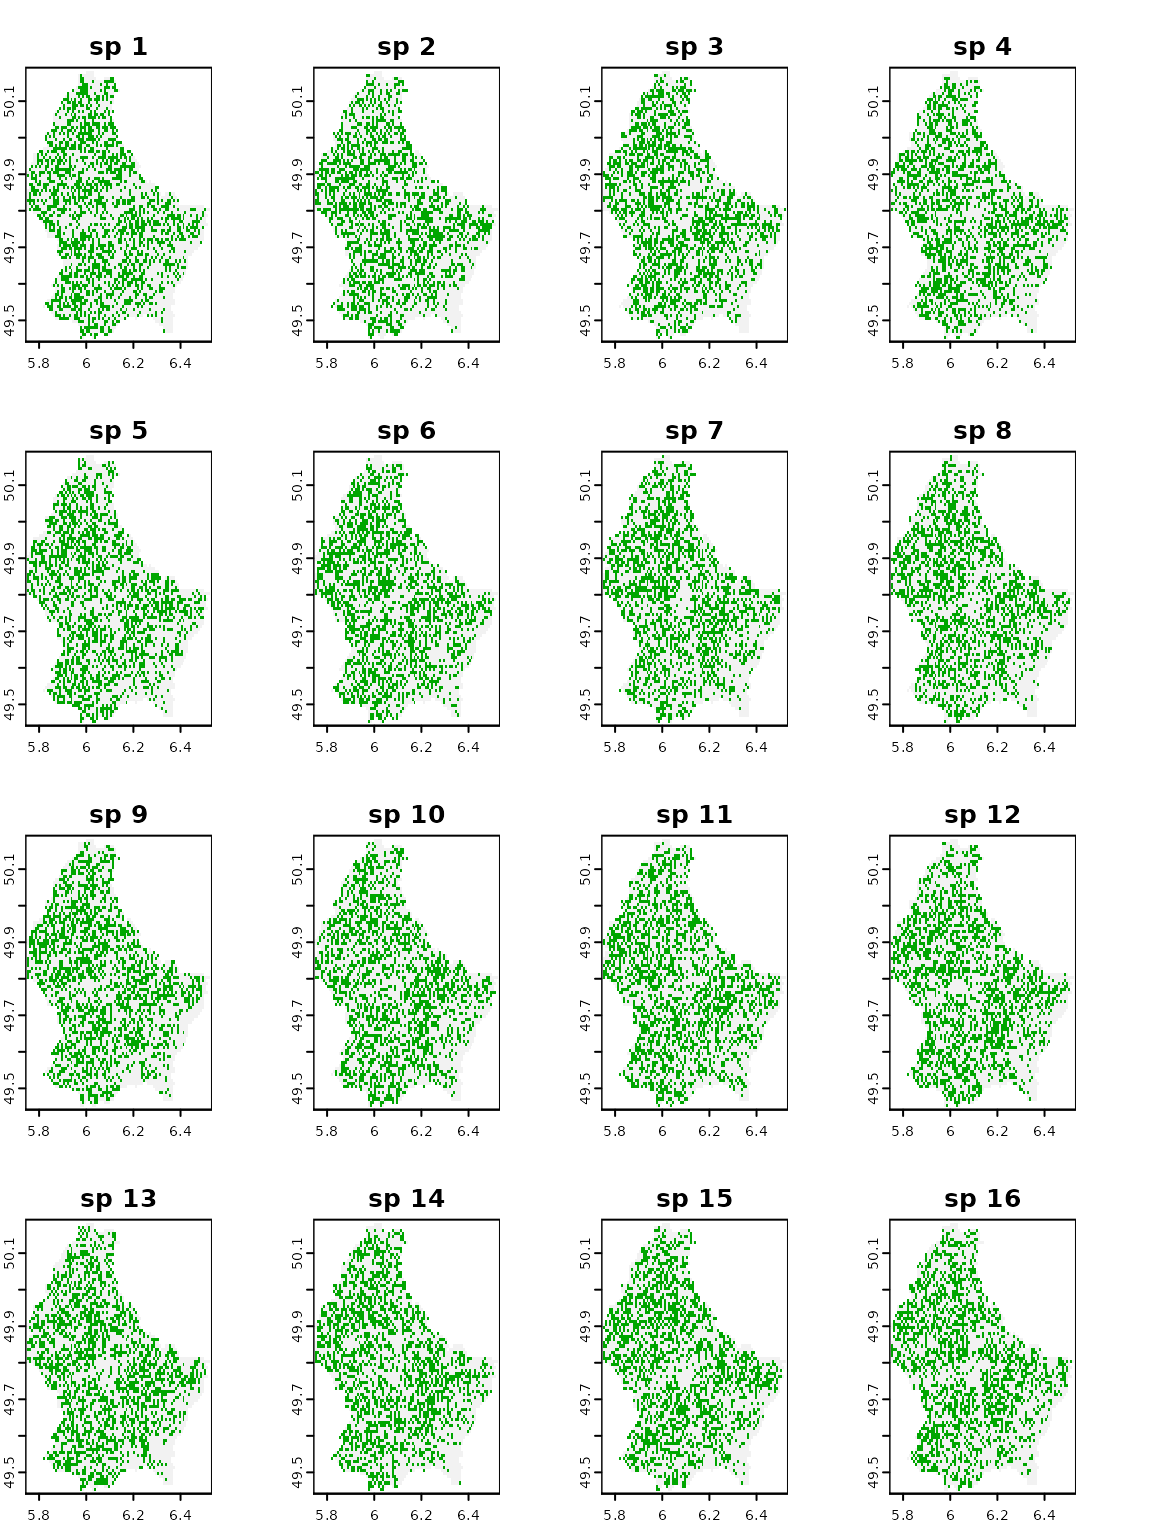
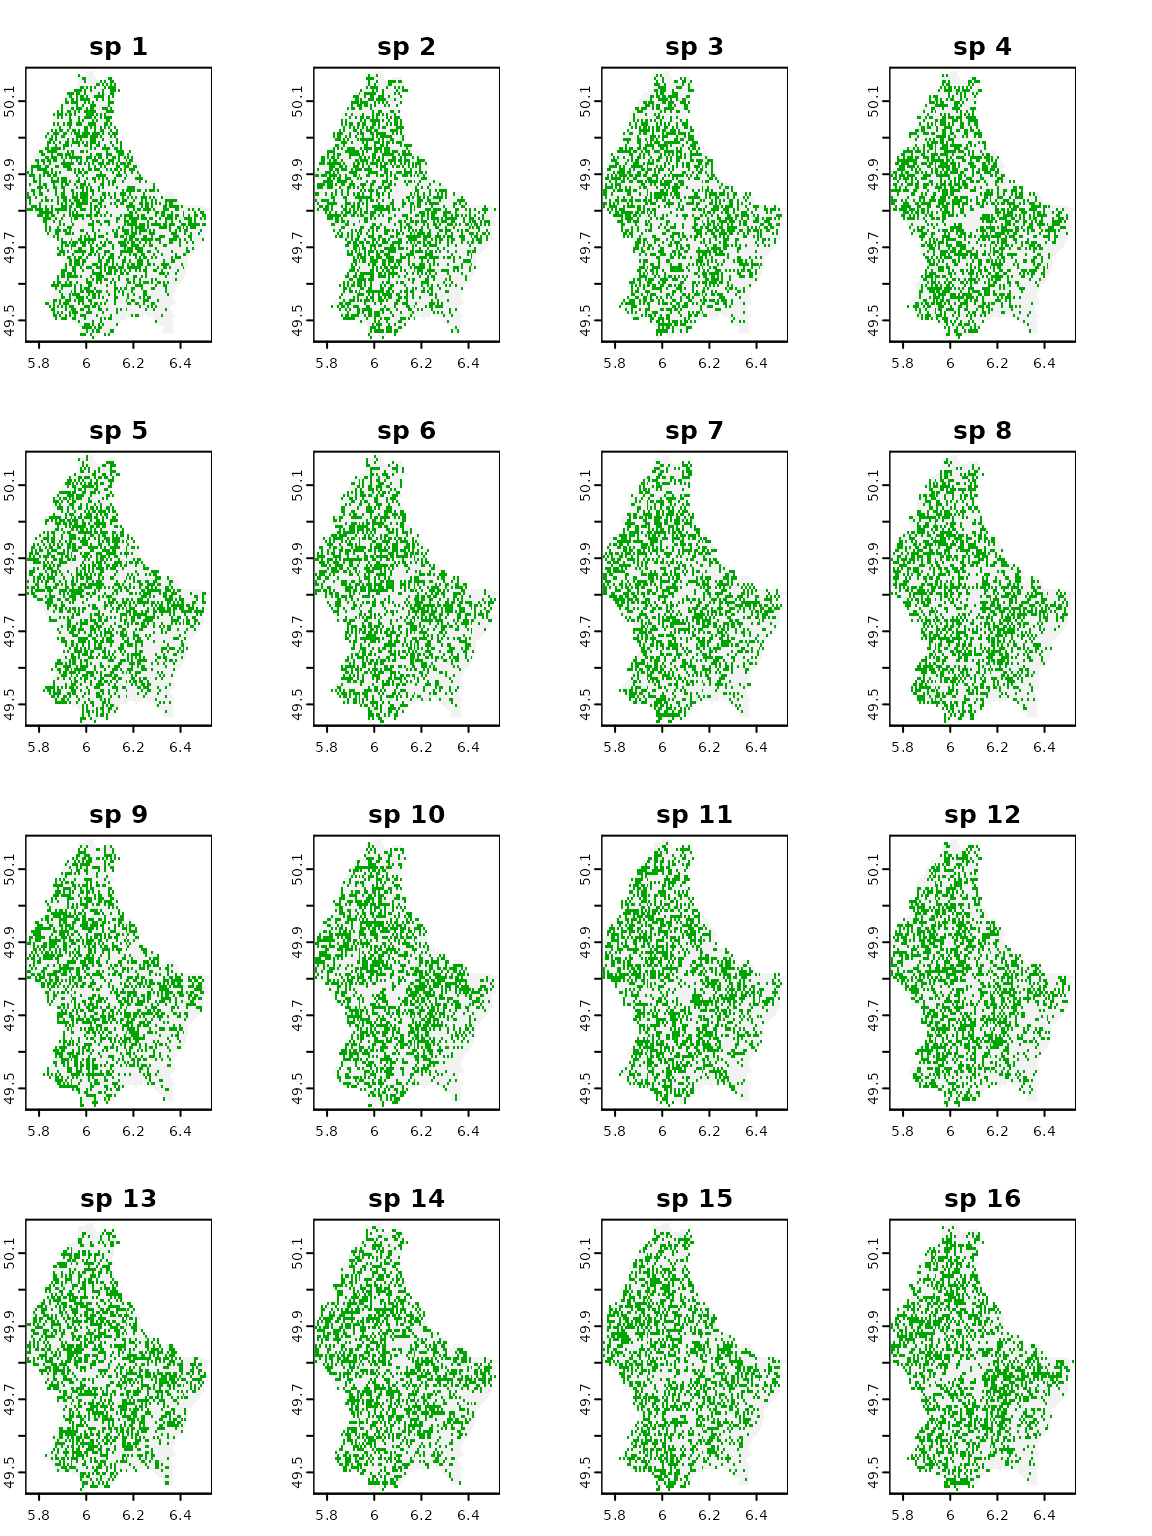
Deploying to gh-pages from @ HemingNM/SESraster@30243ec6cc4952851b741adb73d3d7d036ff828b 🚀

diff --git a/articles/SESraster-vignette.html b/articles/SESraster-vignette.html
@@ -210,6 +210,34 @@ same.</p>
 <div class="sourceCode" id="cb7"><pre class="downlit sourceCode r">
 <code class="sourceCode R"><span><span class="fu"><a href="https://rdrr.io/pkg/terra/man/plot.html" class="external-link">plot</a></span><span class="op">(</span><span class="fu"><a href="https://rdrr.io/r/base/c.html" class="external-link">c</a></span><span class="op">(</span><span class="fu"><a href="https://rdrr.io/r/base/sum.html" class="external-link">sum</a></span><span class="op">(</span><span class="va">r10</span><span class="op">)</span>, <span class="fu"><a href="https://rdrr.io/r/base/sum.html" class="external-link">sum</a></span><span class="op">(</span><span class="va">sr1</span><span class="op">)</span><span class="op">)</span>, main<span class="op">=</span><span class="fu"><a href="https://rdrr.io/r/base/c.html" class="external-link">c</a></span><span class="op">(</span><span class="st">"observed"</span>, <span class="st">"randomized"</span><span class="op">)</span><span class="op">)</span></span></code></pre></div>
 <p><img src="SESraster-vignette_files/figure-html/naive-spp-rich-1.png" width="576"></p>
+<div class="sourceCode" id="cb8"><pre class="downlit sourceCode r">
+<code class="sourceCode R"><span><span class="va">sr1b</span> <span class="op">&lt;-</span> <span class="fu"><a href="../reference/bootspat_naive.html">bootspat_naive</a></span><span class="op">(</span><span class="va">r10</span>, random <span class="op">=</span> <span class="st">"species"</span>, memory <span class="op">=</span> <span class="cn">FALSE</span><span class="op">)</span></span>
+<span><span class="co">#&gt; The file does not fit on the memory. Randomization will be done by probability.</span></span></code></pre></div>
+<p>Check that the number of occupied pixels of randomized distributions
+are similar to those of the observed distributions.</p>
+<div class="sourceCode" id="cb9"><pre class="downlit sourceCode r">
+<code class="sourceCode R"><span><span class="fu"><a href="https://rdrr.io/r/base/cbind.html" class="external-link">cbind</a></span><span class="op">(</span>observed<span class="op">=</span><span class="fu"><a href="https://rdrr.io/r/base/lapply.html" class="external-link">sapply</a></span><span class="op">(</span><span class="va">r10</span>, <span class="kw">function</span><span class="op">(</span><span class="va">x</span><span class="op">)</span><span class="fu"><a href="https://rdrr.io/pkg/terra/man/freq.html" class="external-link">freq</a></span><span class="op">(</span><span class="va">x</span><span class="op">)</span><span class="op">[</span><span class="fl">2</span>,<span class="fl">3</span><span class="op">]</span><span class="op">)</span>,</span>
+<span>      randomized<span class="op">=</span><span class="fu"><a href="https://rdrr.io/r/base/lapply.html" class="external-link">sapply</a></span><span class="op">(</span><span class="va">sr1</span>, <span class="kw">function</span><span class="op">(</span><span class="va">x</span><span class="op">)</span><span class="fu"><a href="https://rdrr.io/pkg/terra/man/freq.html" class="external-link">freq</a></span><span class="op">(</span><span class="va">x</span><span class="op">)</span><span class="op">[</span><span class="fl">2</span>,<span class="fl">3</span><span class="op">]</span><span class="op">)</span>,</span>
+<span>      randomized_freq<span class="op">=</span><span class="fu"><a href="https://rdrr.io/r/base/lapply.html" class="external-link">sapply</a></span><span class="op">(</span><span class="va">sr1b</span>, <span class="kw">function</span><span class="op">(</span><span class="va">x</span><span class="op">)</span><span class="fu"><a href="https://rdrr.io/pkg/terra/man/freq.html" class="external-link">freq</a></span><span class="op">(</span><span class="va">x</span><span class="op">)</span><span class="op">[</span><span class="fl">2</span>,<span class="fl">3</span><span class="op">]</span><span class="op">)</span><span class="op">)</span></span>
+<span><span class="co">#&gt;       observed randomized randomized_freq</span></span>
+<span><span class="co">#&gt;  [1,]      767        767             773</span></span>
+<span><span class="co">#&gt;  [2,]     3443       3443            3452</span></span>
+<span><span class="co">#&gt;  [3,]     1175       1175            1180</span></span>
+<span><span class="co">#&gt;  [4,]      889        889             872</span></span>
+<span><span class="co">#&gt;  [5,]      908        908             952</span></span>
+<span><span class="co">#&gt;  [6,]     2160       2160            2143</span></span>
+<span><span class="co">#&gt;  [7,]      548        548             544</span></span>
+<span><span class="co">#&gt;  [8,]      133        133             127</span></span>
+<span><span class="co">#&gt;  [9,]      122        122             118</span></span>
+<span><span class="co">#&gt; [10,]     4174       4174            4171</span></span>
+<span><span class="co">#&gt; [11,]     2565       2565            2502</span></span>
+<span><span class="co">#&gt; [12,]     3031       3031            3029</span></span>
+<span><span class="co">#&gt; [13,]       36         36              35</span></span>
+<span><span class="co">#&gt; [14,]     4387       4387            4398</span></span>
+<span><span class="co">#&gt; [15,]     3270       3270            3235</span></span>
+<span><span class="co">#&gt; [16,]     2198       2198            2216</span></span>
+<span><span class="co">#&gt; [17,]     2427       2427            2392</span></span>
+<span><span class="co">#&gt; [18,]      235        235             229</span></span></code></pre></div>
 </div>
 <div class="section level4">
 <h4 id="by-site">by site<a class="anchor" aria-label="anchor" href="#by-site"></a>
@@ -222,11 +250,11 @@ pixels can be randomly assigned to each species (raster layer). Notice
 that, although the spatial structure of species richness is held
 constant, the number of pixels that each species occupy is completely
 randomized.</p>
-<div class="sourceCode" id="cb8"><pre class="downlit sourceCode r">
+<div class="sourceCode" id="cb10"><pre class="downlit sourceCode r">
 <code class="sourceCode R"><span><span class="va">sr2</span> <span class="op">&lt;-</span> <span class="fu"><a href="../reference/bootspat_naive.html">bootspat_naive</a></span><span class="op">(</span><span class="va">r10</span>, random <span class="op">=</span> <span class="st">"site"</span><span class="op">)</span></span>
 <span><span class="fu"><a href="https://rdrr.io/pkg/terra/man/plot.html" class="external-link">plot</a></span><span class="op">(</span><span class="va">sr2</span>, legend<span class="op">=</span><span class="cn">F</span><span class="op">)</span></span></code></pre></div>
 <p><img src="SESraster-vignette_files/figure-html/naive-site-1.png" width="576"></p>
-<div class="sourceCode" id="cb9"><pre class="downlit sourceCode r">
+<div class="sourceCode" id="cb11"><pre class="downlit sourceCode r">
 <code class="sourceCode R"><span><span class="fu"><a href="https://rdrr.io/pkg/terra/man/plot.html" class="external-link">plot</a></span><span class="op">(</span><span class="fu"><a href="https://rdrr.io/r/base/c.html" class="external-link">c</a></span><span class="op">(</span><span class="fu"><a href="https://rdrr.io/r/base/sum.html" class="external-link">sum</a></span><span class="op">(</span><span class="va">r10</span><span class="op">)</span>, <span class="fu"><a href="https://rdrr.io/r/base/sum.html" class="external-link">sum</a></span><span class="op">(</span><span class="va">sr2</span><span class="op">)</span><span class="op">)</span>, main<span class="op">=</span><span class="fu"><a href="https://rdrr.io/r/base/c.html" class="external-link">c</a></span><span class="op">(</span><span class="st">"observed"</span>, <span class="st">"randomized"</span><span class="op">)</span><span class="op">)</span></span></code></pre></div>
 <p><img src="SESraster-vignette_files/figure-html/naive-site-rich-1.png" width="576"></p>
 </div>
@@ -255,7 +283,7 @@ stack, control the probability that a given species is sampled in each
 cell raster. Frequency control the probability of each species compared
 to all others. Probability raster stack control the probability that
 each species is sampled on a given raster cell.</p>
-<div class="sourceCode" id="cb10"><pre class="downlit sourceCode r">
+<div class="sourceCode" id="cb12"><pre class="downlit sourceCode r">
 <code class="sourceCode R"><span><span class="co"># bootstrapping once</span></span>
 <span><span class="va">fr.prob</span> <span class="op">&lt;-</span> <span class="fu">SESraster</span><span class="fu">::</span><span class="fu"><a href="../reference/fr2prob.html">fr2prob</a></span><span class="op">(</span><span class="va">r10</span><span class="op">)</span></span>
 <span><span class="va">prob</span> <span class="op">&lt;-</span> <span class="fu">terra</span><span class="fu">::</span><span class="fu"><a href="https://rdrr.io/pkg/terra/man/app.html" class="external-link">app</a></span><span class="op">(</span><span class="va">r10</span>,</span>
@@ -269,37 +297,37 @@ frequency of presence of each species. This method randomizes the
 position of species presences in space keeping the species richness
 constant and number of occupied pixels of randomized distributions very
 similar those on the actual distributions.</p>
-<div class="sourceCode" id="cb11"><pre class="downlit sourceCode r">
+<div class="sourceCode" id="cb13"><pre class="downlit sourceCode r">
 <code class="sourceCode R"><span><span class="fu"><a href="https://rdrr.io/pkg/terra/man/plot.html" class="external-link">plot</a></span><span class="op">(</span><span class="va">randr10</span>, legend<span class="op">=</span><span class="cn">F</span><span class="op">)</span></span></code></pre></div>
 <p><img src="SESraster-vignette_files/figure-html/str-site-1.png" width="576"></p>
 <p>See unchanged spatial pattern of species richness.</p>
-<div class="sourceCode" id="cb12"><pre class="downlit sourceCode r">
+<div class="sourceCode" id="cb14"><pre class="downlit sourceCode r">
 <code class="sourceCode R"><span><span class="fu"><a href="https://rdrr.io/pkg/terra/man/plot.html" class="external-link">plot</a></span><span class="op">(</span><span class="fu"><a href="https://rdrr.io/r/base/c.html" class="external-link">c</a></span><span class="op">(</span><span class="fu"><a href="https://rdrr.io/r/base/sum.html" class="external-link">sum</a></span><span class="op">(</span><span class="va">r10</span><span class="op">)</span>, <span class="fu"><a href="https://rdrr.io/r/base/sum.html" class="external-link">sum</a></span><span class="op">(</span><span class="va">randr10</span><span class="op">)</span><span class="op">)</span>, main<span class="op">=</span><span class="fu"><a href="https://rdrr.io/r/base/c.html" class="external-link">c</a></span><span class="op">(</span><span class="st">"observed"</span>, <span class="st">"randomized"</span><span class="op">)</span><span class="op">)</span></span></code></pre></div>
 <p><img src="SESraster-vignette_files/figure-html/str-site-rich-1.png" width="576"></p>
 <p>Check that the number of occupied pixels of randomized distributions
-are very similar to the actual distributions.</p>
-<div class="sourceCode" id="cb13"><pre class="downlit sourceCode r">
-<code class="sourceCode R"><span><span class="fu"><a href="https://rdrr.io/r/base/cbind.html" class="external-link">cbind</a></span><span class="op">(</span>rand <span class="op">=</span> <span class="fu"><a href="https://rdrr.io/r/base/lapply.html" class="external-link">sapply</a></span><span class="op">(</span><span class="va">randr10</span>, <span class="kw">function</span><span class="op">(</span><span class="va">x</span><span class="op">)</span><span class="fu"><a href="https://rdrr.io/pkg/terra/man/freq.html" class="external-link">freq</a></span><span class="op">(</span><span class="va">x</span><span class="op">)</span><span class="op">[</span><span class="fl">2</span>,<span class="fl">3</span><span class="op">]</span><span class="op">)</span>,</span>
-<span>      actual <span class="op">=</span> <span class="fu"><a href="https://rdrr.io/r/base/lapply.html" class="external-link">sapply</a></span><span class="op">(</span><span class="va">r10</span>, <span class="kw">function</span><span class="op">(</span><span class="va">x</span><span class="op">)</span><span class="fu"><a href="https://rdrr.io/pkg/terra/man/freq.html" class="external-link">freq</a></span><span class="op">(</span><span class="va">x</span><span class="op">)</span><span class="op">[</span><span class="fl">2</span>,<span class="fl">3</span><span class="op">]</span><span class="op">)</span><span class="op">)</span></span>
-<span><span class="co">#&gt;       rand actual</span></span>
-<span><span class="co">#&gt;  [1,]  695    767</span></span>
-<span><span class="co">#&gt;  [2,] 3528   3443</span></span>
-<span><span class="co">#&gt;  [3,] 1063   1175</span></span>
-<span><span class="co">#&gt;  [4,]  791    889</span></span>
-<span><span class="co">#&gt;  [5,]  789    908</span></span>
-<span><span class="co">#&gt;  [6,] 2109   2160</span></span>
-<span><span class="co">#&gt;  [7,]  464    548</span></span>
-<span><span class="co">#&gt;  [8,]  133    133</span></span>
-<span><span class="co">#&gt;  [9,]  107    122</span></span>
-<span><span class="co">#&gt; [10,] 4253   4174</span></span>
-<span><span class="co">#&gt; [11,] 2559   2565</span></span>
-<span><span class="co">#&gt; [12,] 3145   3031</span></span>
-<span><span class="co">#&gt; [13,]   28     36</span></span>
-<span><span class="co">#&gt; [14,] 4424   4387</span></span>
-<span><span class="co">#&gt; [15,] 3366   3270</span></span>
-<span><span class="co">#&gt; [16,] 2287   2198</span></span>
-<span><span class="co">#&gt; [17,] 2542   2427</span></span>
-<span><span class="co">#&gt; [18,]  185    235</span></span></code></pre></div>
+are very similar those of the observed distributions.</p>
+<div class="sourceCode" id="cb15"><pre class="downlit sourceCode r">
+<code class="sourceCode R"><span><span class="fu"><a href="https://rdrr.io/r/base/cbind.html" class="external-link">cbind</a></span><span class="op">(</span>observed<span class="op">=</span><span class="fu"><a href="https://rdrr.io/r/base/lapply.html" class="external-link">sapply</a></span><span class="op">(</span><span class="va">r10</span>, <span class="kw">function</span><span class="op">(</span><span class="va">x</span><span class="op">)</span><span class="fu"><a href="https://rdrr.io/pkg/terra/man/freq.html" class="external-link">freq</a></span><span class="op">(</span><span class="va">x</span><span class="op">)</span><span class="op">[</span><span class="fl">2</span>,<span class="fl">3</span><span class="op">]</span><span class="op">)</span>,</span>
+<span>      randomized<span class="op">=</span><span class="fu"><a href="https://rdrr.io/r/base/lapply.html" class="external-link">sapply</a></span><span class="op">(</span><span class="va">randr10</span>, <span class="kw">function</span><span class="op">(</span><span class="va">x</span><span class="op">)</span><span class="fu"><a href="https://rdrr.io/pkg/terra/man/freq.html" class="external-link">freq</a></span><span class="op">(</span><span class="va">x</span><span class="op">)</span><span class="op">[</span><span class="fl">2</span>,<span class="fl">3</span><span class="op">]</span><span class="op">)</span><span class="op">)</span></span>
+<span><span class="co">#&gt;       observed randomized</span></span>
+<span><span class="co">#&gt;  [1,]      767        681</span></span>
+<span><span class="co">#&gt;  [2,]     3443       3532</span></span>
+<span><span class="co">#&gt;  [3,]     1175       1119</span></span>
+<span><span class="co">#&gt;  [4,]      889        849</span></span>
+<span><span class="co">#&gt;  [5,]      908        832</span></span>
+<span><span class="co">#&gt;  [6,]     2160       2138</span></span>
+<span><span class="co">#&gt;  [7,]      548        461</span></span>
+<span><span class="co">#&gt;  [8,]      133        104</span></span>
+<span><span class="co">#&gt;  [9,]      122         95</span></span>
+<span><span class="co">#&gt; [10,]     4174       4246</span></span>
+<span><span class="co">#&gt; [11,]     2565       2602</span></span>
+<span><span class="co">#&gt; [12,]     3031       3127</span></span>
+<span><span class="co">#&gt; [13,]       36         32</span></span>
+<span><span class="co">#&gt; [14,]     4387       4413</span></span>
+<span><span class="co">#&gt; [15,]     3270       3379</span></span>
+<span><span class="co">#&gt; [16,]     2198       2193</span></span>
+<span><span class="co">#&gt; [17,]     2427       2483</span></span>
+<span><span class="co">#&gt; [18,]      235        182</span></span></code></pre></div>
 </div>
 </div>
 <div class="section level2">
